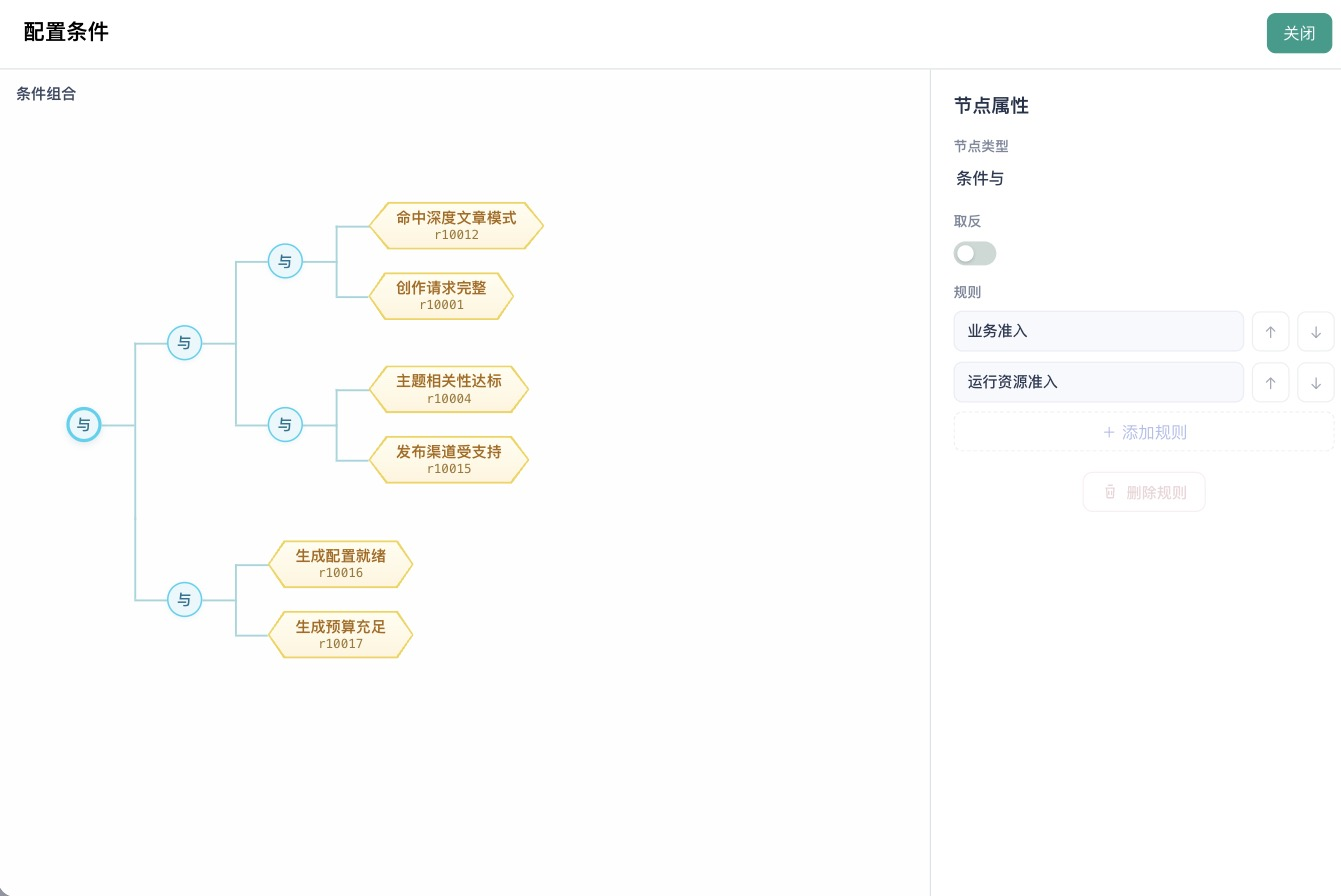
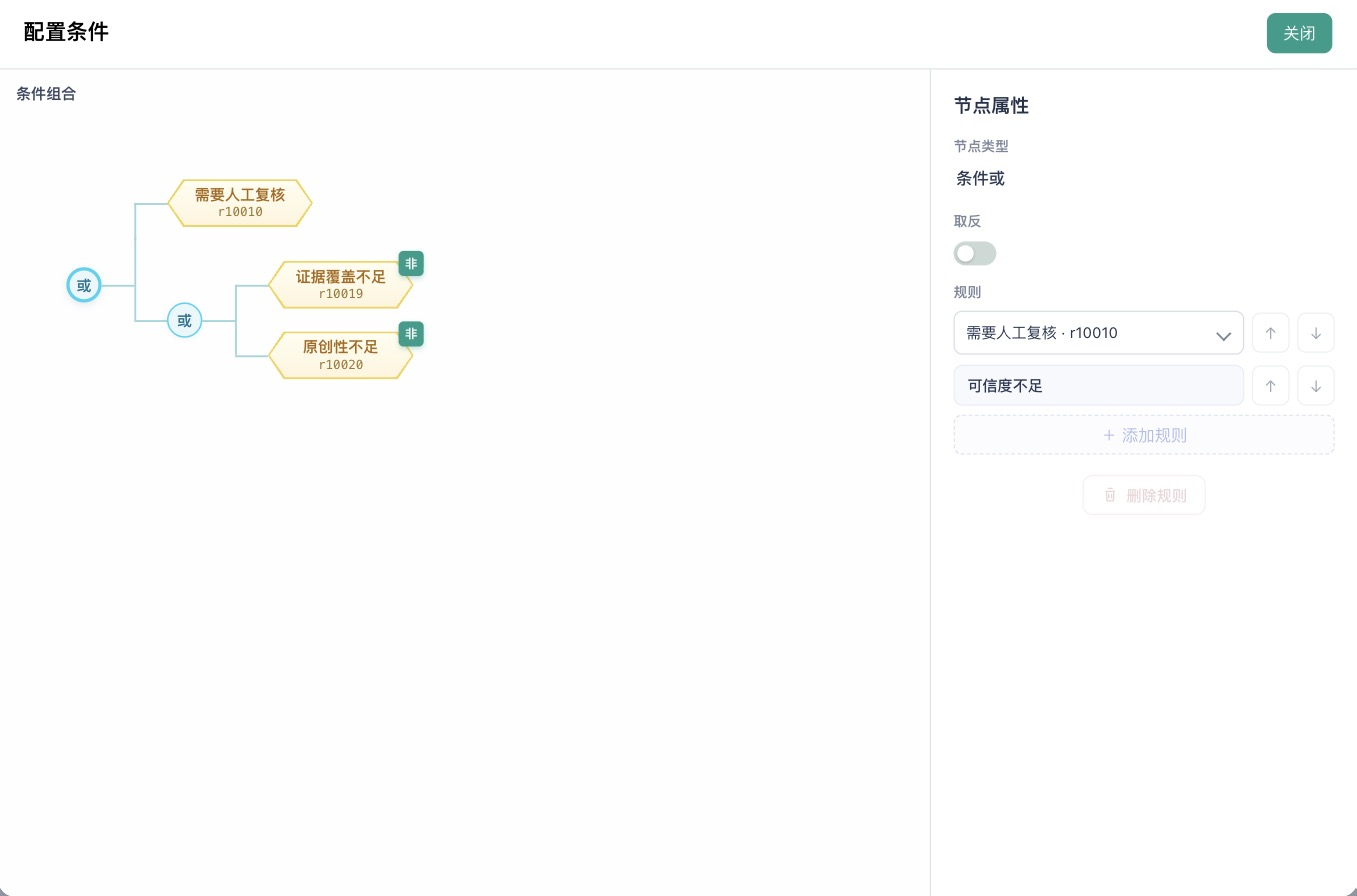
修正配图问题：SVG 布局/规则弹窗改或组合/循环显条件
- dag-vs-tree 递归树侧重画为规整树（去掉斜穿的 e→LoopNode）
- engine-coupling 结构层用总线连到三个求值入口（不再悬空）
- 规则弹窗改用真实"或组合+取反"条件（发布前质量门禁），替换全是"与"的例子
- 循环画布改为选中循环节点、右侧显示最大轮次与循环条件，避免误读为无条件循环

Claude-Session: https://claude.ai/code/session_011oXYugHR1nUYgYGxoLx69o

diff --git a/src/content/blog/engineering/domain/规则引擎双层语言设计：递归树编排与计算引擎解耦.md b/src/content/blog/engineering/domain/规则引擎双层语言设计：递归树编排与计算引擎解耦.md
@@ -93,9 +93,9 @@ Rule = AtomicNode(expr, args?)
 
 **Flow** 是宿主递归域，承载动作、条件、串行、并行、分支、循环；**Rule** 是内嵌规则域，承载原子引用、可取反引用、与或组合、限定匹配。两个域只通过 `FlowNode.rule -> RuleNode` 单向连接：规则子树不能引用 Flow 节点，因此规则表达式不会反向携带编排关系。这条单向边是上层保持结构清晰的关键约束。
 
-Rule 域本身也是一棵可递归组合的树。下面是一个条件节点的规则编辑器：根节点是「条件与」，下面嵌套两层与组合，每个叶子引用一条原子规则（`r10012`、`r10001` 等稳定 `ruleId`），支持整体取反、增删与重排。与、或、限定匹配可以互相转换、任意嵌套，和 Flow 域的结构节点是同一套递归思路。
+Rule 域本身也是一棵可递归组合的树。下面是「发布前质量门禁」里一个人工复核条件的规则编辑器：根节点是「条件或」，含「需要人工复核」和一个嵌套的「条件或」，后者的两个叶子「证据覆盖不足」「原创性不足」都对原子规则做了取反（标记为「非」）。每个叶子按稳定 `ruleId` 引用一条原子规则（`r10010`、`r10019` 等）。与、或、限定匹配可以互相转换、任意嵌套，叶子可整体取反，和 Flow 域的结构节点是同一套递归思路。
 
-![Mosika 规则编辑弹窗：条件与/或组合的递归树，叶子按 ruleId 引用原子规则，支持取反与排序](/images/blog/dual-language-rule-engine/rule-popup.jpg)
+![Mosika 规则编辑弹窗：条件或组合的递归树，含嵌套的或与取反（非），叶子按 ruleId 引用原子规则](/images/blog/dual-language-rule-engine/rule-popup.jpg)
 
 ### 递归如何消解那两个包袱
 
@@ -158,9 +158,9 @@ Rule 域本身也是一棵可递归组合的树。下面是一个条件节点的
 
 在递归树里这个问题不存在。循环是一个和串、并、分同级的普通节点 `LoopNode(max, condition, next)`，循环体就是 `next` 指向的一棵完整 Flow 子树——单根、自带边界。因为循环体本身又是一棵普通子树，在它里面再放一个 `LoopNode` 就是嵌套循环，不需要任何额外机制。表达循环和表达串行一样，只是换一种节点类型。
 
-下面是一个真实的循环场景「素材补全重试」：`LoopNode` 每轮先判断「仍需补全素材」，命中则执行补全动作并进入下一轮，最多五轮；循环结束后接一个「记录生成审计」动作。循环体、循环条件、循环后续都是画布上的普通节点。
+下面是一个真实的循环场景「素材补全重试」。选中「循」节点，右侧属性面板显示它的最大循环次数（5）和循环条件（仍需补全素材）——循环不是无条件重复，而是每轮先判断循环条件，命中则执行补全动作并进入下一轮，未命中或达到轮次上限即退出；循环结束后接一个「记录生成审计」动作。循环条件、循环体、循环后续都是画布上的普通节点。
 
-![Mosika 素材补全重试场景：循环节点承载补全动作，循环结束后接记录审计，循环体是画布上的普通子树](/images/blog/dual-language-rule-engine/canvas-loop.jpg)
+![Mosika 素材补全重试场景：选中循环节点，右侧属性面板显示最大循环次数 5 与循环条件仍需补全素材，循环体是普通子树](/images/blog/dual-language-rule-engine/canvas-loop.jpg)
 
 递归树替换 DAG，代价是舍弃自由连线的直观，换来的是一套自始至终一致、可无限嵌套、编辑即执行的编排语言。
 
